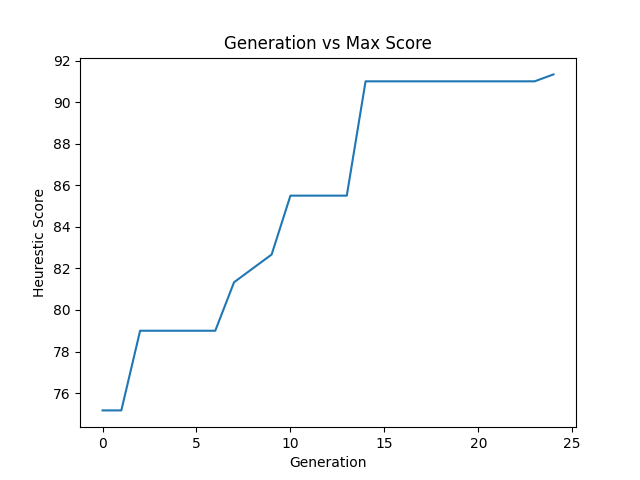
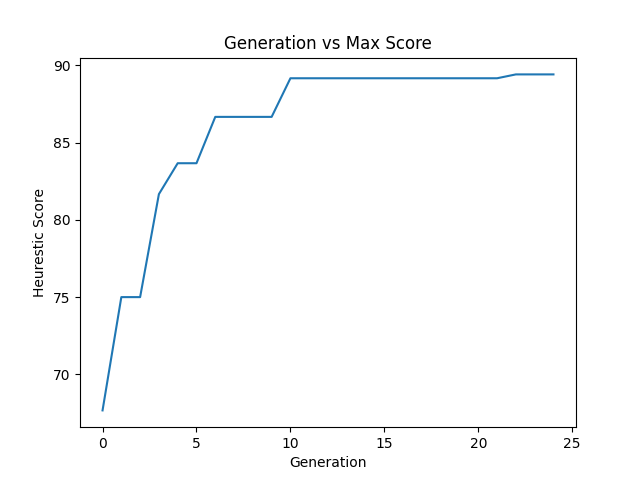
Correction

diff --git a/genetic.py b/genetic.py
@@ -420,9 +420,9 @@ def OX(plane: Plane, g1, g2):
     return (off1, off2)
 
 
-initial_pop = 4
+initial_pop = 256
 
-plane = Plane(100, 6, [1], 3)
+plane = Plane(200, 6, [1], 3)
 plane.populate_w_sample(80)
 
 generations = []
@@ -460,8 +460,7 @@ while iterations > 0:
         next.append(hq.heappop(results)[1])
         next.append(hq.heappop(results)[1])
 
-        curr = next
-
+    curr = next
     iterations -= 1
 
 scores = []
